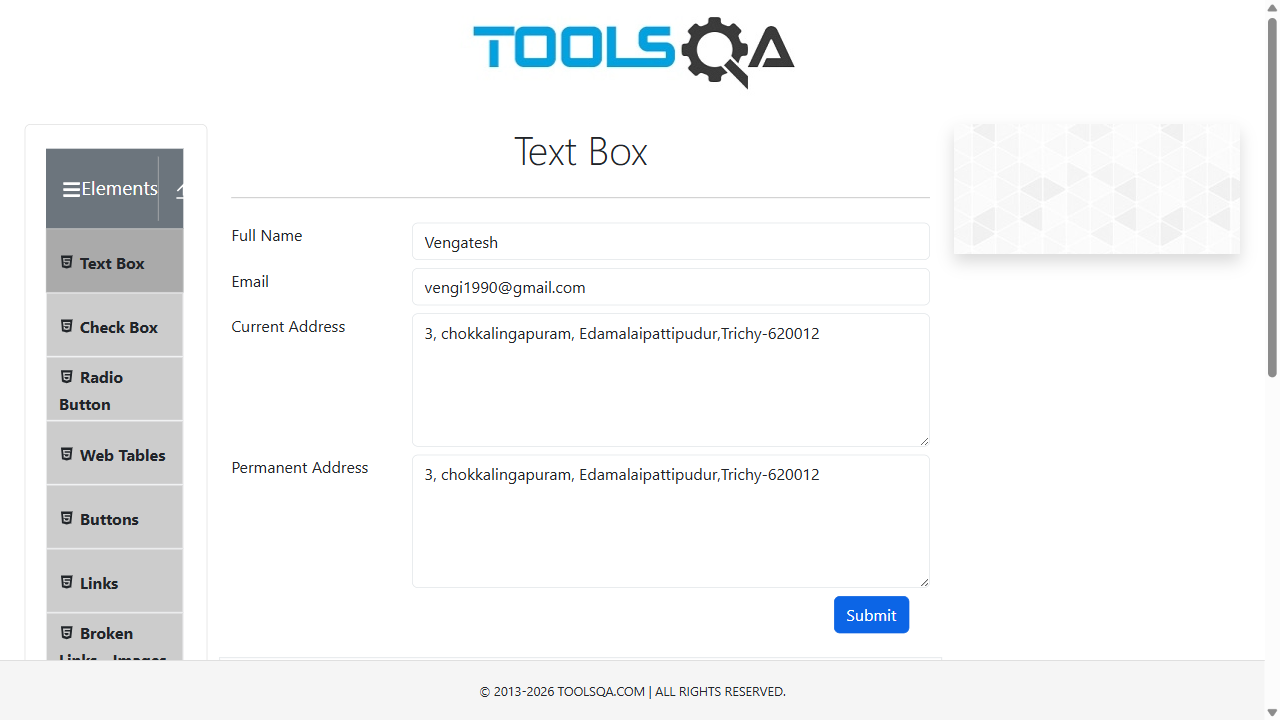
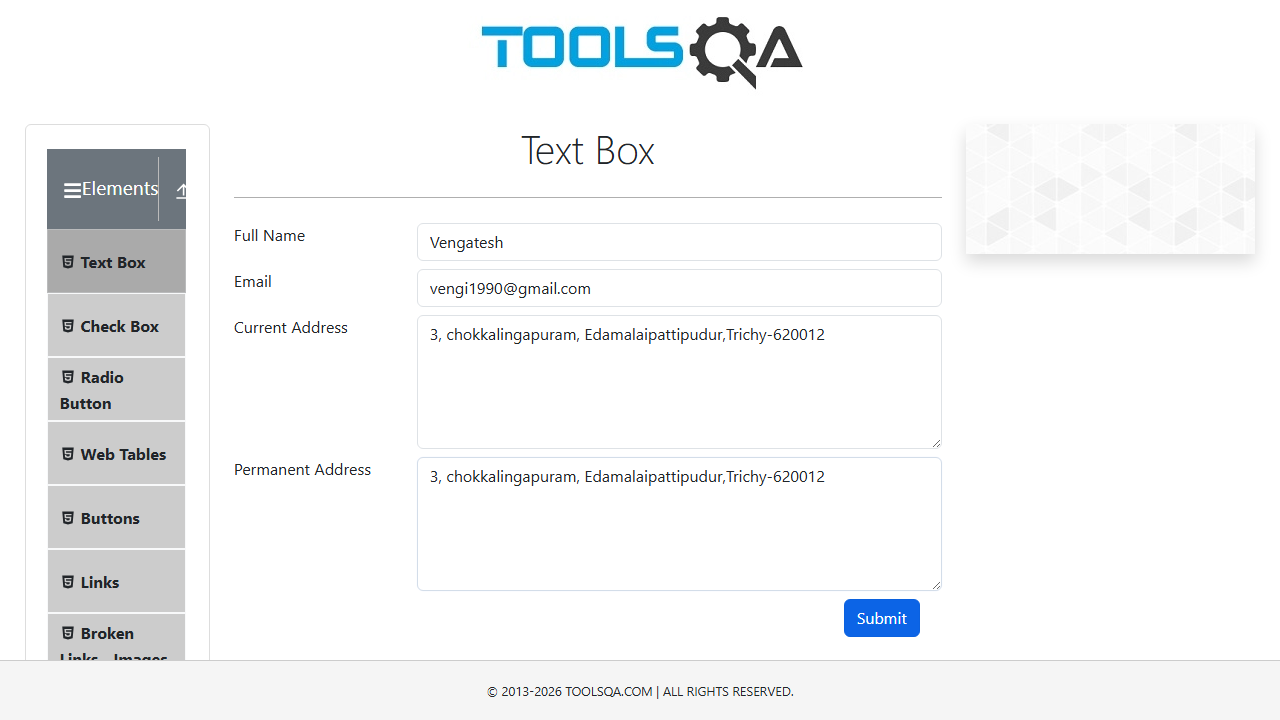
Deserilization added

diff --git a/tests/Mynthra.spec.js b/tests/Mynthra.spec.js
@@ -1,0 +1,51 @@
+import { test } from '@playwright/test';
+import { firefox } from 'playwright';
+
+test('Mynthra', async ({ page }) => {
+  await page.context().setExtraHTTPHeaders({ 'accept-language': 'en-US,en;q=0.9' });
+  let targetPage = page;
+  let fallbackBrowser;
+  try {
+    await page.goto('https://www.myntra.com/boy-tshirts', { waitUntil: 'domcontentloaded', timeout: 30000 });
+  } catch (e) {
+    console.warn('Initial navigation failed in Chromium, attempting Firefox fallback:', e.message);
+    try {
+      fallbackBrowser = await firefox.launch();
+      const ffContext = await fallbackBrowser.newContext();
+      const ffPage = await ffContext.newPage();
+      await ffPage.goto('https://www.myntra.com/boy-tshirts', { waitUntil: 'networkidle', timeout: 60000 });
+      targetPage = ffPage;
+    } catch (ffErr) {
+      console.error('Firefox fallback also failed:', ffErr.message);
+      if (fallbackBrowser) await fallbackBrowser.close();
+      throw ffErr;
+    }
+  }
+
+  // total number of product 
+  const totalProducts = await targetPage.locator('//li[@class="product-base"]').count();
+  console.log('Total number of products:', totalProducts);
+//Min price for all products
+  const priceElements = await targetPage.locator(
+    '//li[@class="product-base"]/descendant::div[@class="product-price"]/span[span[@class="product-discountedPrice"] or (text() and not(@class))]'
+  ).allTextContents();
+  const prices = priceElements.map(p => parseInt(p.replace(/[^\d]/g, ''), 10));
+  const minPrice = Math.min(...prices);
+ console.log('All prices:', prices);
+  console.log('Minimum price:', minPrice);
+
+//Min price only for discounted price
+  const minpriceElements = await targetPage
+   .locator('//li[@class="product-base"]/descendant::span[@class="product-discountedPrice"]')
+    .allTextContents();
+  const minprices = minpriceElements
+    .map((p) => parseInt(p.replace(/[^\d]/g, ''), 10));
+  const minDiscountedPrice = Math.min(...prices);
+  console.log('Discounted prices:', minprices);
+  console.log('Minimum discounted price:', minDiscountedPrice);
+
+   if (fallbackBrowser) await fallbackBrowser.close();
+
+});
+
+ 

diff --git a/tests/Demo.spec.js b/tests/Demo.spec.js
@@ -1,8 +1,14 @@
 import { test } from '@playwright/test'
 
-test('Opening Demoqa',async({page})=>{
-await page.goto('https://demoqa.com/text-box');
-await page.waitForTimeout(4000);
+test('Opening Demoqa', async ({ page }) => {
+	try {
+		await page.goto('https://demoqa.com/text-box', { waitUntil: 'domcontentloaded', timeout: 30000 });
+	} catch (e) {
+		console.error('Navigation failed:', e.message);
+		// retry with longer timeout
+		await page.goto('https://demoqa.com/text-box', { waitUntil: 'networkidle', timeout: 60000 });
+	}
+	await page.waitForTimeout(4000);
 await page.locator('#userName').fill('Vengatesh');
 await page.waitForTimeout(2000);
 await page.locator("[placeholder='name@example.com']").fill('vengi1990@gmail.com');

diff --git a/tests/Deserialization.spec.js b/tests/Deserialization.spec.js
@@ -1,0 +1,18 @@
+
+import { test, expect } from '@playwright/test';
+import employeeData from '../testdata.json' ;
+
+test('Validate employee details from JSON', async () => {
+// Deserialize JSON data
+  const employee = employeeData.employee;
+
+  // Find the second mobile number
+  const secondMobile = employee.mobileNumbers[1];
+  console.log('Second Mobile Number:', secondMobile);
+  expect(secondMobile).toBeDefined();
+
+  // Verify employee has skillset "API"
+  const skillset = employee.skills.includes("API");
+  console.log('Has API Skill:', skillset);
+  expect(skillset).toBe(true);
+});

diff --git a/tests/RelativeXpath.spec.js b/tests/RelativeXpath.spec.js
@@ -5,4 +5,4 @@ await page.goto('https://www.amazon.in/');
 await page.waitForTimeout(4000);
 await page.locator()
 
-}
+})
